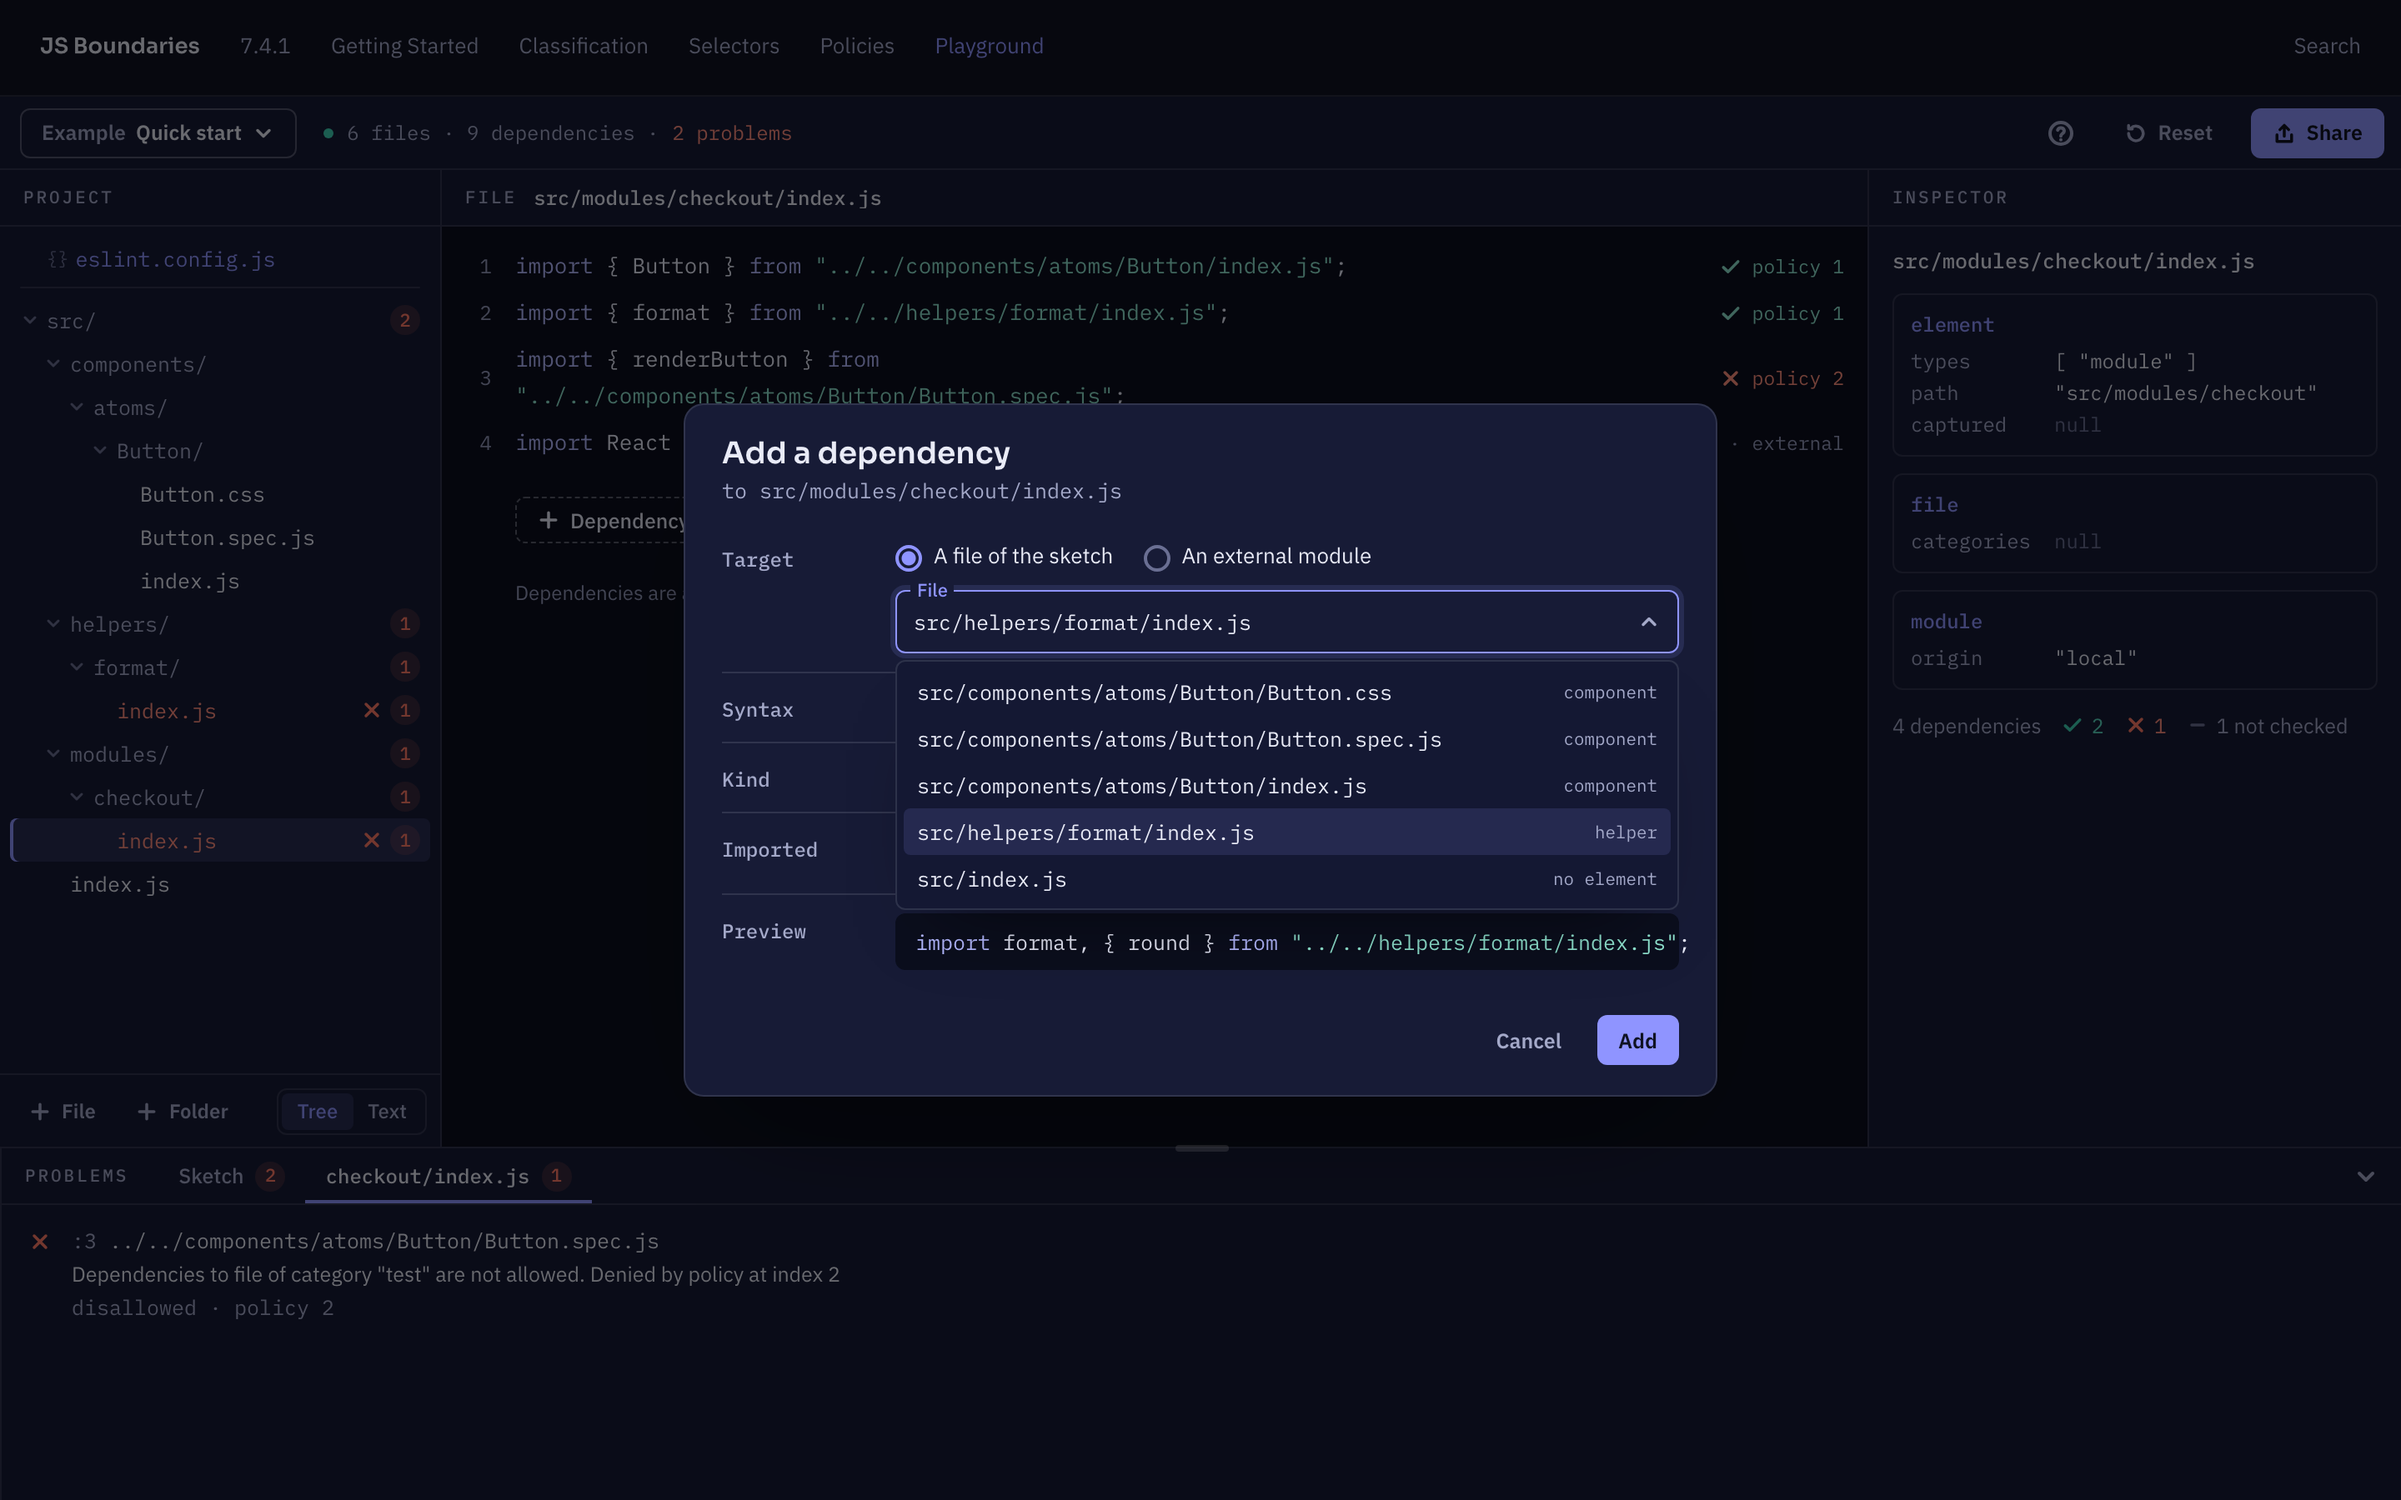
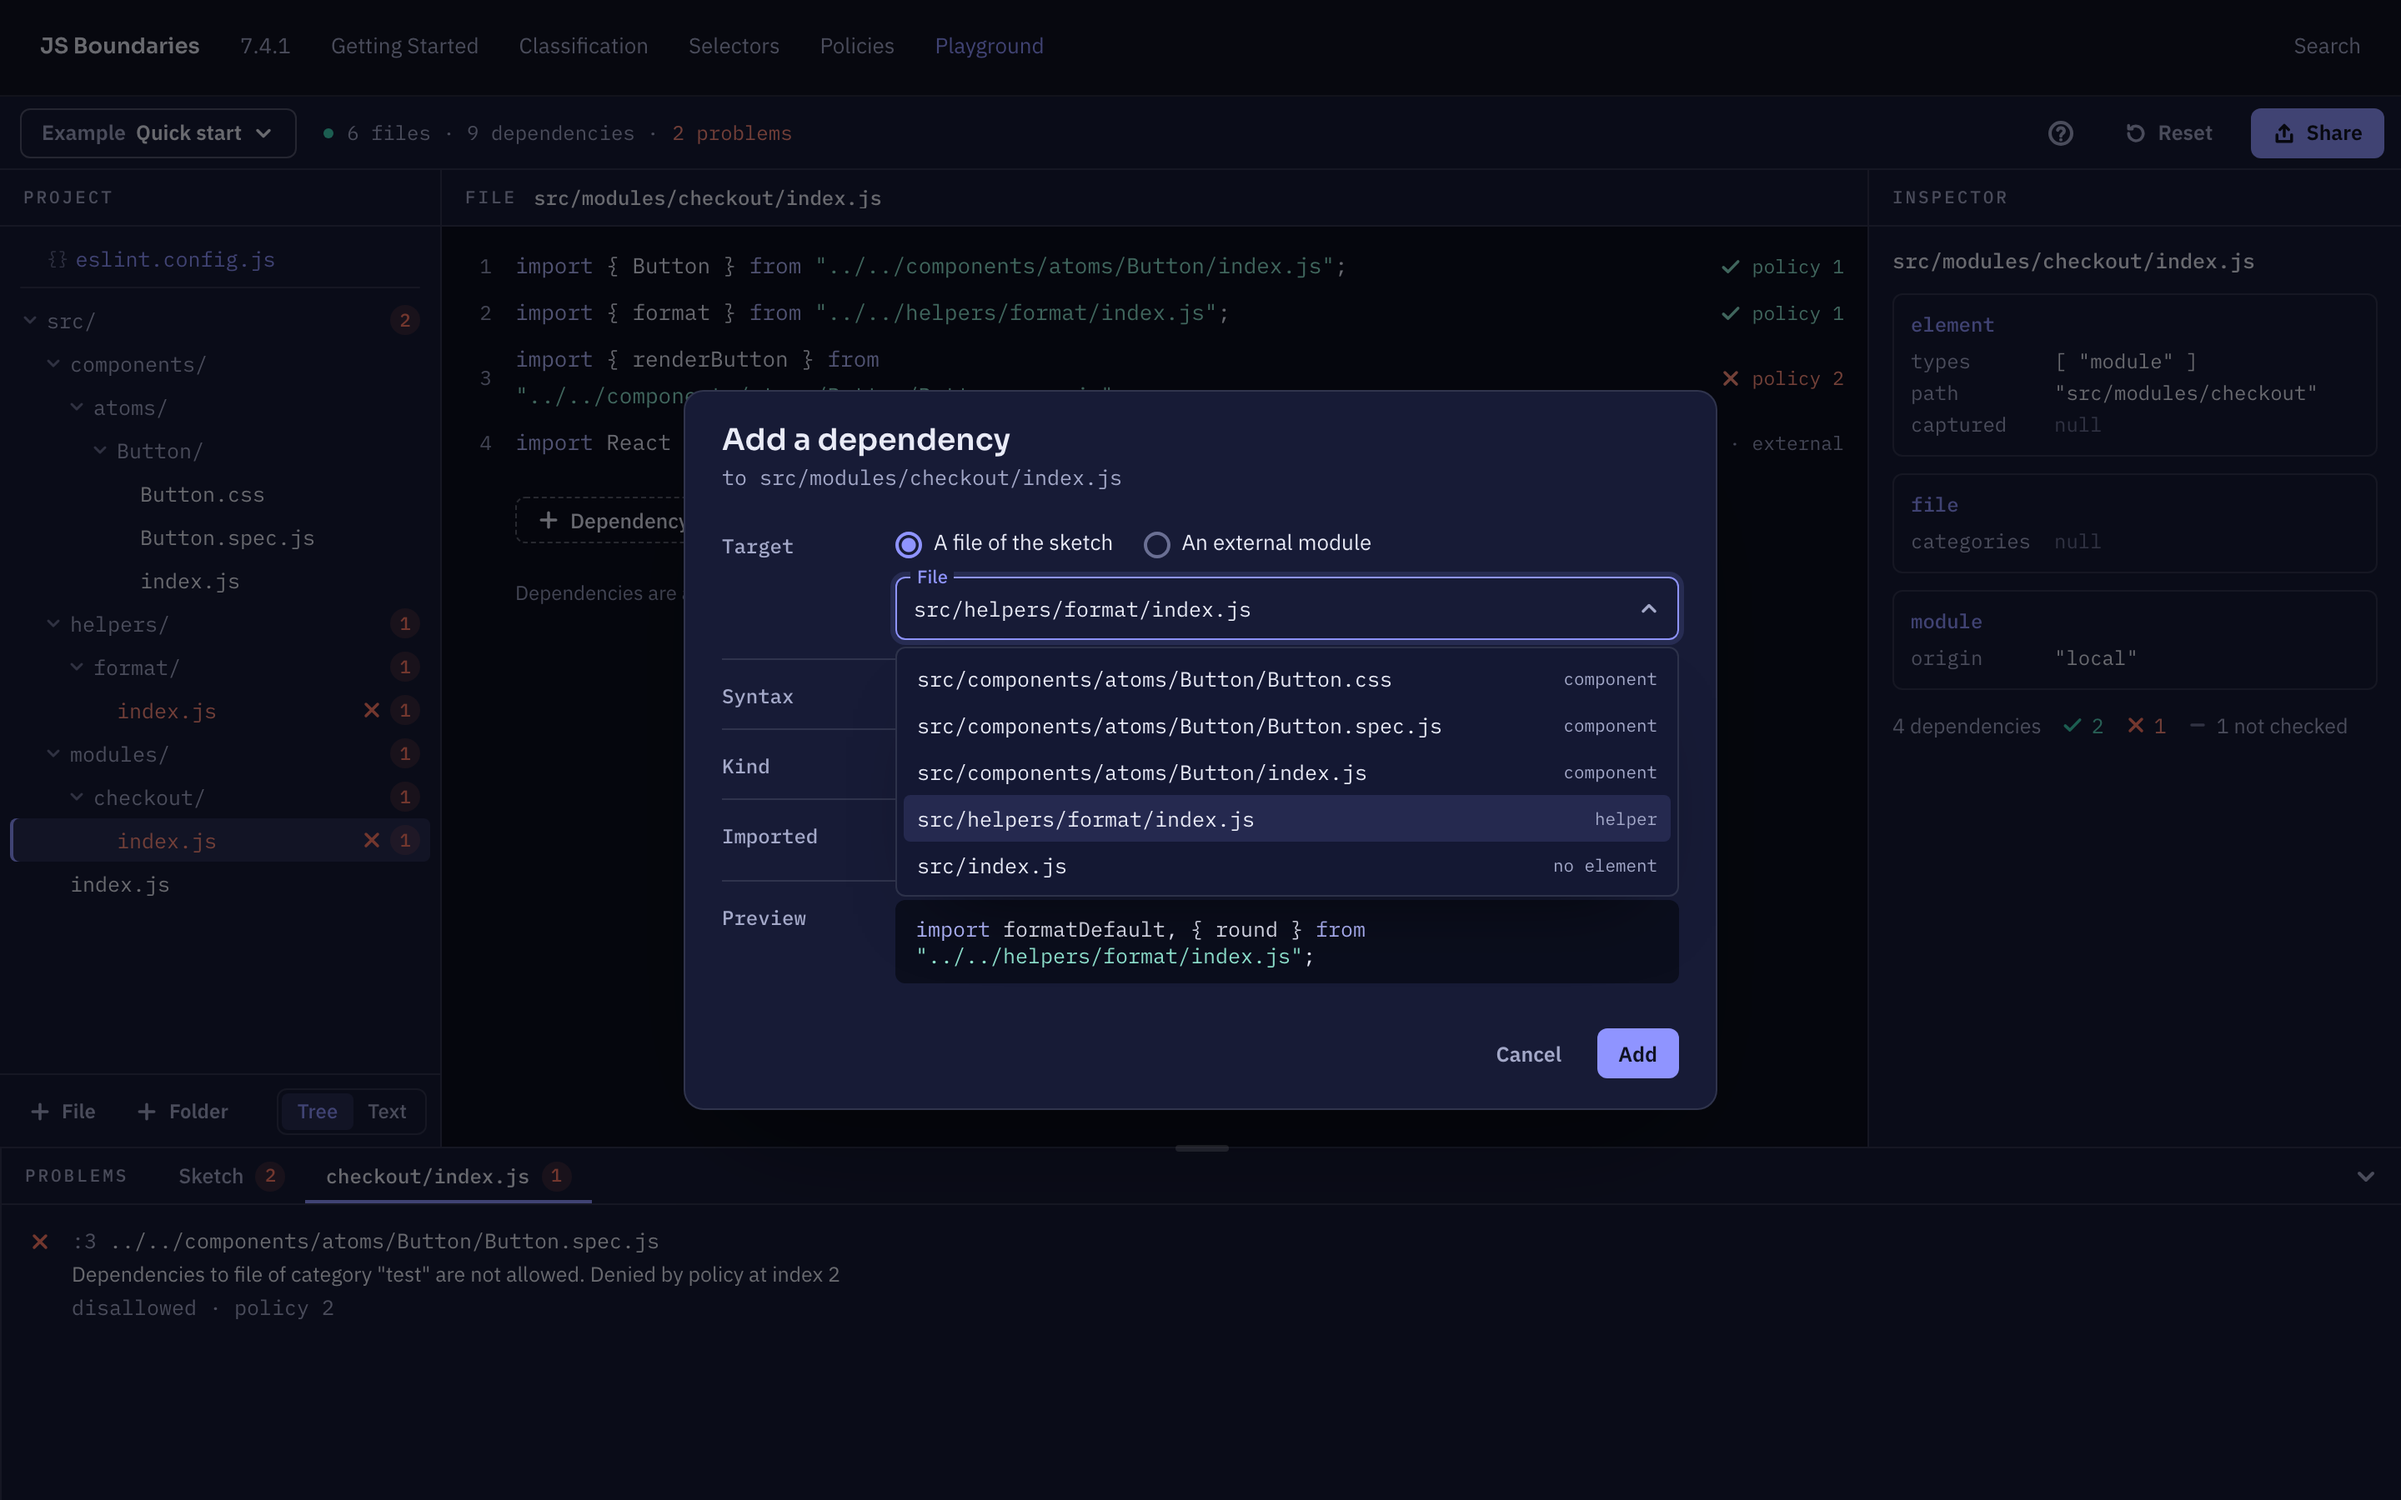
chore(playground): give the picker of the mockup a name its file does not import
checkout/index.js already imports { format }, so the default name of the
mockup's draft is formatDefault, as in the specs, and its preview wraps
the full path as the page does.

Claude-Session: https://claude.ai/code/session_015a9xQKSQAxVGrRFhsQwFVc

Changed region(s): [[0.2812, 0.2489, 0.7188, 0.7467], [0.3125, 0.5289, 0.3438, 0.6222], [0.3125, 0.4356, 0.3438, 0.4978]]

diff --git a/.agents/plans/playground/mockups/playground.html b/.agents/plans/playground/mockups/playground.html
@@ -1300,6 +1300,8 @@
         background: var(--jsb-code);
         color: var(--jsb-code-fg);
         font: 12.5px var(--jsb-font-mono);
+        white-space: pre-wrap;
+        overflow-wrap: anywhere;
       }
 
       .preview .kw {
@@ -1950,14 +1952,14 @@ src/pages/<span class="caret"></span>
           <div class="row">
             <label class="lab">Imported</label>
             <div class="chips">
-              <span class="chip"><span class="kind">default</span> format <span class="x"><svg class="icon"><use href="#i-cross" /></svg></span></span>
+              <span class="chip"><span class="kind">default</span> formatDefault <span class="x"><svg class="icon"><use href="#i-cross" /></svg></span></span>
               <span class="chip"><span class="kind">named</span> round <span class="x"><svg class="icon"><use href="#i-cross" /></svg></span></span>
               <span class="chip add"><svg class="icon"><use href="#i-plus" /></svg>Name</span>
             </div>
           </div>
           <div class="row">
             <label class="lab">Preview</label>
-            <pre class="preview"><span class="kw">import</span> format, { round } <span class="kw">from</span> <span class="str">"../../helpers/format/index.js"</span>;</pre>
+            <pre class="preview"><span class="kw">import</span> formatDefault, { round } <span class="kw">from</span> <span class="str">"../../helpers/format/index.js"</span>;</pre>
           </div>
         </div>
         <footer>
